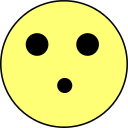
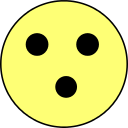
Add 5 new emojis :frowning2: :frowning: :hushed: :slight_frown: :grinning: Additionally, slight_frown has become frown and open_mouth looks different from hushed.

Changed region(s): [[0.4062, 0.5938, 0.625, 0.7812]]

diff --git a/tymoji.user.js b/tymoji.user.js
@@ -57,6 +57,11 @@ var tymojiData = [
  ["~wink~", "https://raw.githubusercontent.com/Tymewalk/Tymoji/master/img/wink.png", "~wink~"],
  ["~package~", "https://raw.githubusercontent.com/Tymewalk/Tymoji/master/img/package.png", "~package~"],
  ["~yum~", "https://raw.githubusercontent.com/Tymewalk/Tymoji/master/img/yum.png", "~yum~"],
+ ["~frowning2~", "https://raw.githubusercontent.com/Tymewalk/Tymoji/master/img/frowning2.png", "~yum~"],
+ ["~grinning~", "https://raw.githubusercontent.com/Tymewalk/Tymoji/master/img/grinning.png", "~grinning~"],
+ ["~frowning~", "https://raw.githubusercontent.com/Tymewalk/Tymoji/master/img/frowning.png", "~frowning~"],
+ ["~angry~", "https://raw.githubusercontent.com/Tymewalk/Tymoji/master/img/angry.png", "~angry~"],
+ ["~hushed~", "https://raw.githubusercontent.com/Tymewalk/Tymoji/master/img/hushed.png", "~hushed~"],
 ];
 
 var emojioneData = [
@@ -74,6 +79,11 @@ var emojioneData = [
  ["~wink~", "http://emojione.com/wp-content/uploads/assets/emojis/1f609.svg", "~wink~"],
  ["~package~", "http://emojione.com/wp-content/uploads/assets/emojis/1f4e6.svg", "~package~"],
  ["~yum~", "http://emojione.com/wp-content/uploads/assets/emojis/1f60b.svg", "~yum~"],
+ ["~frowning2~", "http://emojione.com/wp-content/uploads/assets/emojis/2639.svg", "~frowning2~"],
+ ["~grinning~", "http://emojione.com/wp-content/uploads/assets/emojis/1f600.svg", "~grinning~"],
+ ["~frowning~", "http://emojione.com/wp-content/uploads/assets/emojis/1f626.svg", "~frowning~"],
+ ["~angry~", "http://emojione.com/wp-content/uploads/assets/emojis/1f620.svg", "~angry~"],
+ ["~hushed~", "http://emojione.com/wp-content/uploads/assets/emojis/1f62f.svg", "~hushed~"],
 ];
 
 var emojisData = tymojiData;
